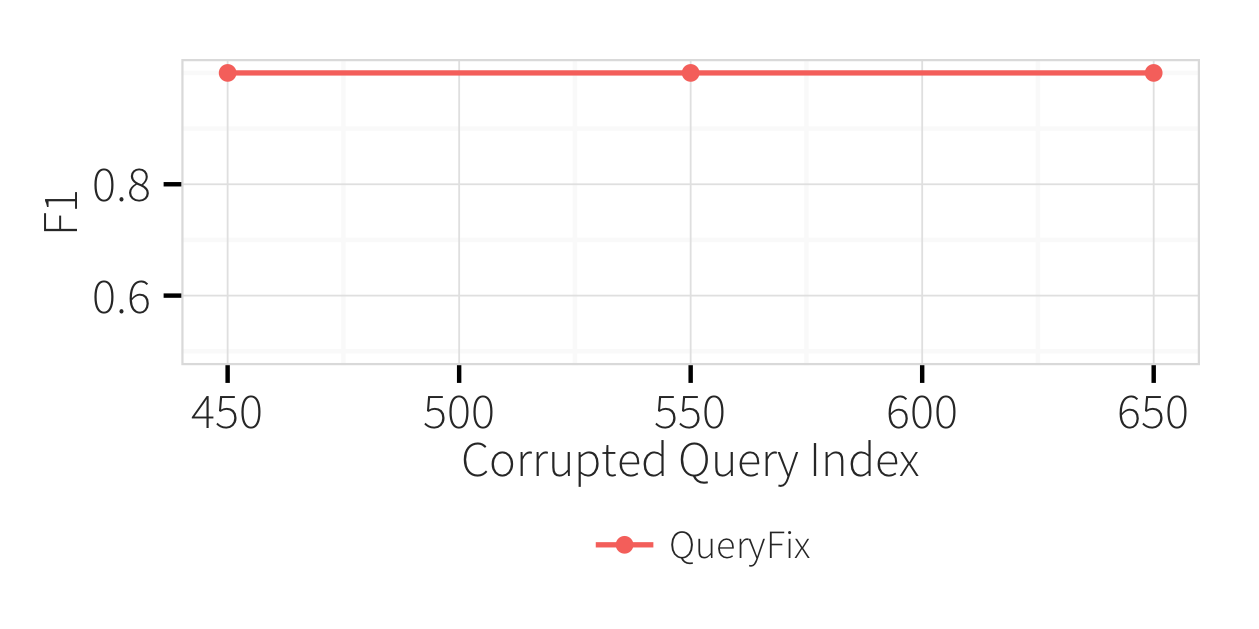
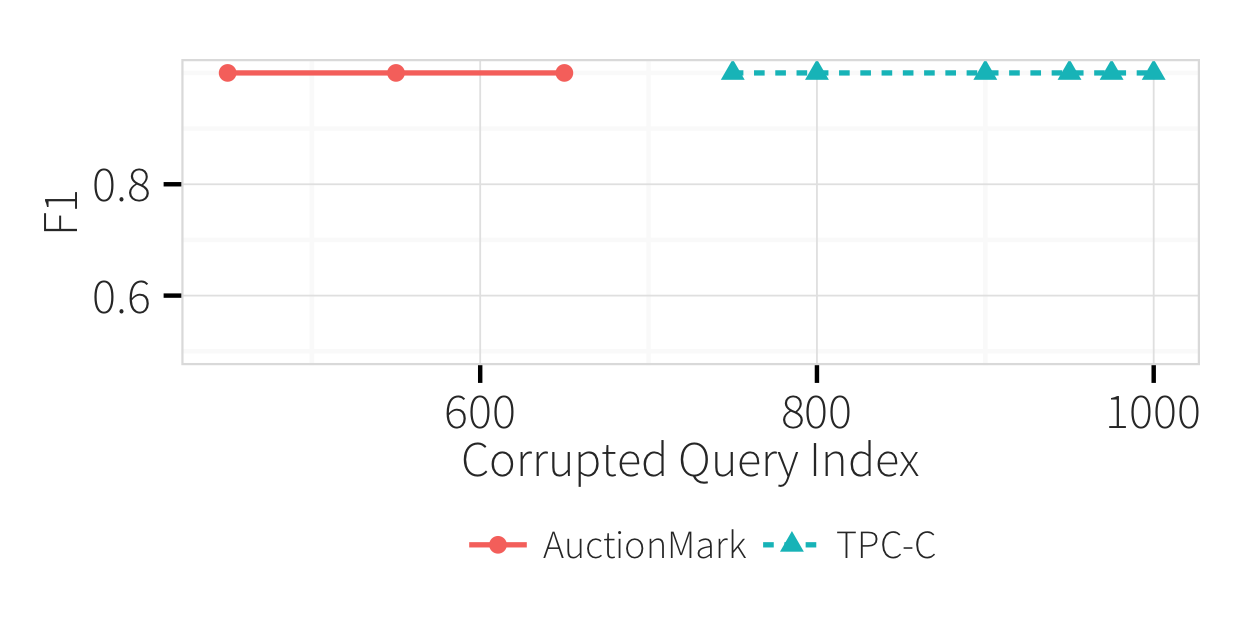
added benchmark

diff --git a/docs/sigmod15/content/xx-experiments.tex b/docs/sigmod15/content/xx-experiments.tex
@@ -197,21 +197,28 @@ experiments that justify the rationale behind our selection.
 
 
 
-
 \begin{figure}[h]
 \centering
-  \begin{subfigure}[t]{\columnwidth}
-  \includegraphics[width = .95\columnwidth]{figures/tpcc_time}
-  \caption{Performance on TPC-C Benchmark}
-  \label{f:tpcc} 
-  \end{subfigure}
-  \begin{subfigure}[t]{\columnwidth}
-  \includegraphics[width = .95\columnwidth]{figures/auction_time}
-  \caption{Performance on AuctionMark Benchmark}
-  \label{f:auctionmark} 
-  \end{subfigure}
-  \caption{Benchmark Performance}
+  \includegraphics[width = .95\columnwidth]{figures/benchmar_time}
+  \label{f:benchmarks} 
+  \caption{Performance on Benchmarks}
 \end{figure}
+
+
+% \begin{figure}[h]
+% \centering
+%   \begin{subfigure}[t]{\columnwidth}
+%   \includegraphics[width = .95\columnwidth]{figures/tpcc_time}
+%   \caption{Performance on TPC-C Benchmark}
+%   \label{f:tpcc} 
+%   \end{subfigure}
+%   \begin{subfigure}[t]{\columnwidth}
+%   \includegraphics[width = .95\columnwidth]{figures/auction_time}
+%   \caption{Performance on AuctionMark Benchmark}
+%   \label{f:auctionmark} 
+%   \end{subfigure}
+%   \caption{Benchmark Performance}
+% \end{figure}
 
 \subsection{Benchmark}
 We evaluate the proposed algorithm on two benchmarks. Queries in the benchmark 
